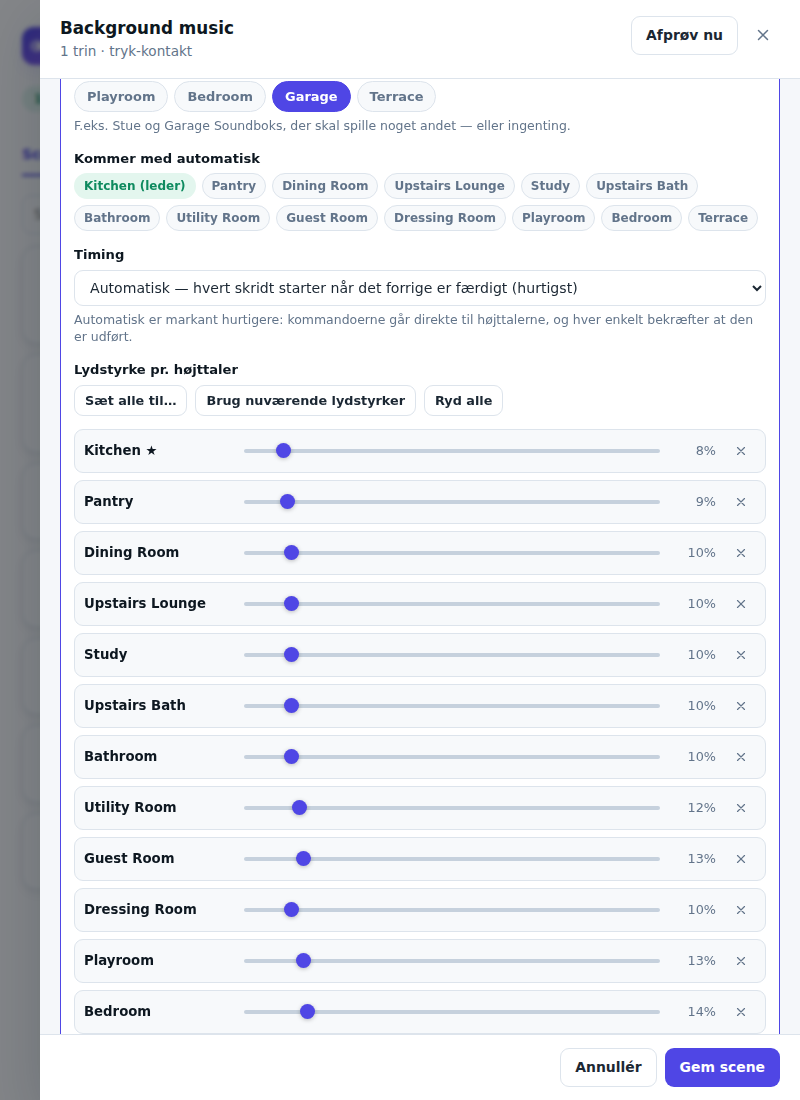
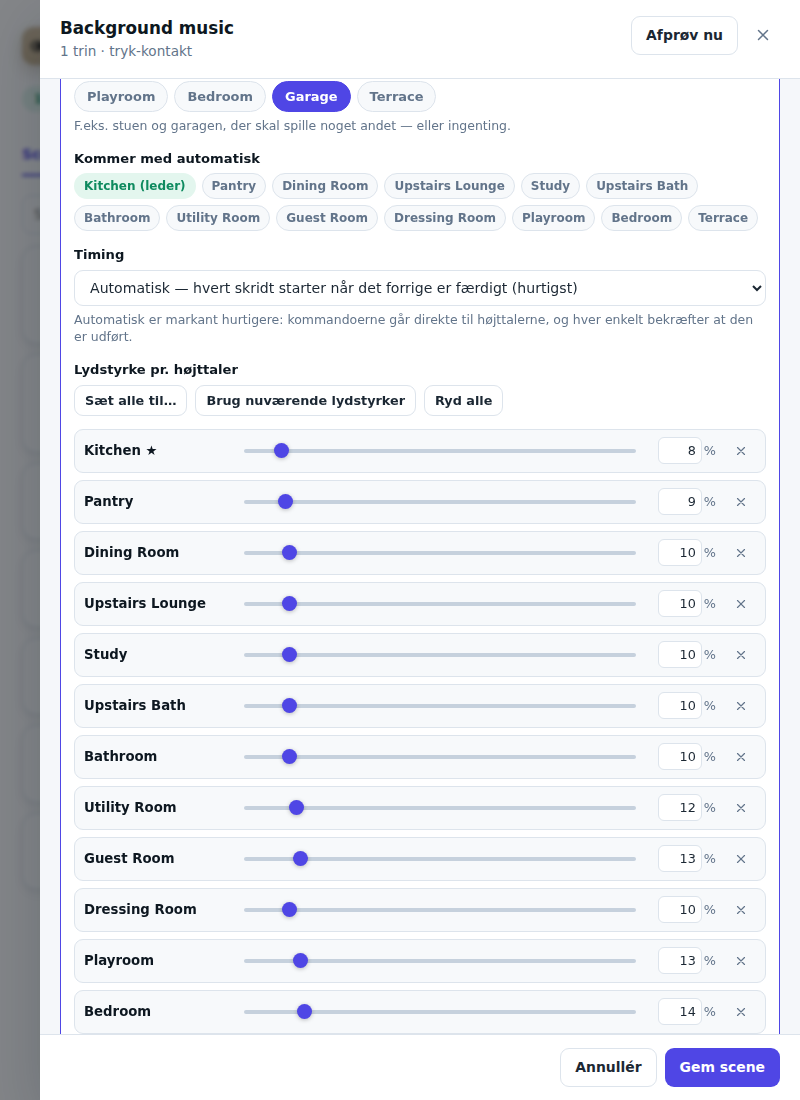
Type the level, and drag only by the grip
Reaching for a volume slider dragged the whole step. The card is
draggable so the list can be reordered, and a range input inside a
draggable element hands the gesture to its parent — so nudging 8 % to
12 % moved the step three places down instead.

Steps and scenes are now dragged only by their grip, which was always
there with a tooltip saying so. And each speaker's level has a number
field beside its slider: a slider is good for finding a level by ear
and useless for saying "twelve". Out-of-range numbers clip to 0-100 on
blur; clearing the field means the same as pressing the cross.

Also: the sand icon with the SONOS name, the same tile in the settings
header, and a mock household that hangs up its own sockets on teardown.

diff --git a/homebridge-ui/public/index.js b/homebridge-ui/public/index.js
@@ -635,9 +635,20 @@ function wireSceneDrag(list) {
   if (list.dataset.wired) return;
   list.dataset.wired = '1';
   let dragged = null;
+  let fromHandle = false;
+  list.addEventListener('mousedown', (event) => {
+    fromHandle = Boolean(event.target.closest('.sf-drag'));
+  });
+  list.addEventListener('mouseup', () => {
+    fromHandle = false;
+  });
   list.addEventListener('dragstart', (event) => {
     const card = event.target.closest('.sf-scene');
     if (!card) return;
+    if (!fromHandle) {
+      event.preventDefault();
+      return;
+    }
     dragged = card;
     card.classList.add('is-dragging');
     event.dataTransfer.effectAllowed = 'move';
@@ -646,6 +657,7 @@ function wireSceneDrag(list) {
     dragged?.classList.remove('is-dragging');
     $$('.sf-scene', list).forEach((card) => card.classList.remove('is-drop-target'));
     dragged = null;
+    fromHandle = false;
   });
   list.addEventListener('dragover', (event) => {
     event.preventDefault();
@@ -1501,7 +1513,13 @@ function renderGroupAndPlay(step, listKey) {
             <span class="sf-volrow-name" title="${escapeHtml(name)}">${escapeHtml(name)}${name === coordinator ? ' ★' : ''}</span>
             <input type="range" min="0" max="100" value="${set ? value : 10}"
                    data-act="vol-set" data-name="${escapeHtml(name)}" data-step="${step.id}" data-list="${listKey}" />
-            <span class="sf-volrow-value">${set ? `${value}%` : '—'}</span>
+            <span class="sf-volrow-num">
+              <input type="number" min="0" max="100" step="1" inputmode="numeric"
+                     value="${set ? value : ''}" placeholder="—"
+                     aria-label="${escapeHtml(name)}"
+                     data-act="vol-num" data-name="${escapeHtml(name)}" data-step="${step.id}" data-list="${listKey}" />
+              <span aria-hidden="true">%</span>
+            </span>
             <button type="button" class="sf-btn sf-btn--icon" data-act="vol-unset" data-name="${escapeHtml(name)}" data-step="${step.id}" data-list="${listKey}" title="${escapeHtml(t('ui.editor.dontTouch'))}">
               <svg viewBox="0 0 24 24" width="14" height="14" fill="none" stroke="currentColor" stroke-width="2" stroke-linecap="round"><path d="M18 6 6 18M6 6l12 12"/></svg>
             </button>
@@ -1909,6 +1927,14 @@ async function onEditorClick(event) {
 }
 
 function onEditorChange(event) {
+  if (event.target.dataset.act === 'vol-num') {
+    // Normalise what is on screen to what was stored: 250 becomes 100, 7.6
+    // becomes 8, and "abc" goes back to empty rather than sitting there.
+    const step = stepById(event.target.dataset.list, event.target.dataset.step);
+    const stored = step?.params?.volumes?.[event.target.dataset.name];
+    event.target.value = stored === undefined ? '' : stored;
+    return;
+  }
   const field = event.target.dataset.field;
   if (!field) return;
   const listKey = event.target.dataset.list;
@@ -1975,7 +2001,33 @@ function onEditorInput(event) {
     step.params.volumes[target.dataset.name] = Number(target.value);
     const row = target.closest('.sf-volrow');
     row.classList.remove('is-unset');
-    row.querySelector('.sf-volrow-value').textContent = `${target.value}%`;
+    row.querySelector('.sf-volrow-num input').value = target.value;
+    markDirty();
+    return;
+  }
+
+  /*
+   * The typed percentage.
+   *
+   * A slider is fine for finding a level by ear and hopeless for saying "12".
+   * Clearing the field is the same as pressing ×: this speaker is left alone.
+   */
+  if (target.dataset.act === 'vol-num') {
+    const step = stepById(target.dataset.list, target.dataset.step);
+    if (!step) return;
+    const row = target.closest('.sf-volrow');
+    const raw = target.value.trim();
+    step.params.volumes = { ...(step.params.volumes || {}) };
+    if (raw === '') {
+      delete step.params.volumes[target.dataset.name];
+      row.classList.add('is-unset');
+    } else {
+      const value = Math.max(0, Math.min(100, Math.round(Number(raw))));
+      if (!Number.isFinite(value)) return;
+      step.params.volumes[target.dataset.name] = value;
+      row.classList.remove('is-unset');
+      row.querySelector('input[type="range"]').value = value;
+    }
     markDirty();
     return;
   }
@@ -2037,9 +2089,28 @@ function readControl(element) {
 
 function wireStepDrag(root) {
   let dragged = null;
+  /*
+   * Only the grip starts a drag.
+   *
+   * The card is draggable, and a range input inside a draggable element hands
+   * the gesture to the parent — so reaching for a volume slider moved the whole
+   * step instead. The browser tells us nothing useful in dragstart (its target
+   * is the card, whatever you actually grabbed), so remember the mousedown.
+   */
+  let fromHandle = false;
+  root.addEventListener('mousedown', (event) => {
+    fromHandle = Boolean(event.target.closest('.sf-drag'));
+  });
+  root.addEventListener('mouseup', () => {
+    fromHandle = false;
+  });
   root.addEventListener('dragstart', (event) => {
     const card = event.target.closest('.sf-step');
     if (!card) return;
+    if (!fromHandle) {
+      event.preventDefault();
+      return;
+    }
     dragged = card;
     card.classList.add('is-dragging');
     event.dataTransfer.effectAllowed = 'move';
@@ -2048,6 +2119,7 @@ function wireStepDrag(root) {
     dragged?.classList.remove('is-dragging');
     $$('.sf-step', root).forEach((card) => card.classList.remove('is-drop-target'));
     dragged = null;
+    fromHandle = false;
   });
   root.addEventListener('dragover', (event) => {
     const card = event.target.closest('.sf-step');

diff --git a/homebridge-ui/public/styles.css b/homebridge-ui/public/styles.css
@@ -98,14 +98,16 @@ body {
 
 .sf-brand { display: flex; gap: 12px; align-items: center; min-width: 0; }
 
+/* The same tile as the app icon, so the settings page and the plugin browser
+   are recognisably the same product. */
 .sf-brand-mark {
   display: grid;
   place-items: center;
   width: 38px; height: 38px;
   border-radius: 12px;
-  background: linear-gradient(140deg, var(--sf-accent), #8b5cf6);
-  color: #fff;
-  box-shadow: 0 6px 16px var(--sf-accent-soft);
+  background: linear-gradient(160deg, #d2c0a2, #bfab88);
+  color: #1b1a16;
+  box-shadow: 0 6px 16px rgba(120, 96, 56, 0.28);
   flex: none;
 }
 
@@ -531,7 +533,7 @@ input[type="range"]::-moz-range-thumb {
 /* Volume map */
 .sf-volmap { display: grid; gap: 7px; }
 .sf-volrow {
-  display: grid; grid-template-columns: minmax(110px, 150px) 1fr 46px 30px;
+  display: grid; grid-template-columns: minmax(110px, 150px) 1fr 70px 30px;
   align-items: center; gap: 10px;
   padding: 6px 9px; border-radius: var(--sf-radius-sm);
   background: var(--sf-surface-soft); border: 1px solid var(--sf-border);
@@ -539,6 +541,21 @@ input[type="range"]::-moz-range-thumb {
 .sf-volrow.is-unset { opacity: 0.55; }
 .sf-volrow-name { font-size: 0.83rem; font-weight: 600; color: var(--sf-heading); overflow: hidden; text-overflow: ellipsis; white-space: nowrap; }
 .sf-volrow-value { font-variant-numeric: tabular-nums; font-size: 0.8rem; color: var(--sf-muted); text-align: right; }
+
+/* The level can be typed as well as dragged — a slider is good for finding a
+   level by ear and useless for saying "twelve". */
+.sf-volrow-num { display: flex; align-items: center; justify-content: flex-end; gap: 2px; font-size: 0.8rem; color: var(--sf-muted); }
+.sf-volrow-num input {
+  width: 44px; padding: 3px 5px;
+  border: 1px solid var(--sf-border); border-radius: 6px;
+  background: var(--sf-surface); color: var(--sf-text);
+  font: inherit; font-variant-numeric: tabular-nums; text-align: right;
+  -moz-appearance: textfield; appearance: textfield;
+}
+.sf-volrow-num input::-webkit-outer-spin-button,
+.sf-volrow-num input::-webkit-inner-spin-button { -webkit-appearance: none; margin: 0; }
+.sf-volrow-num input:focus { outline: none; border-color: var(--sf-accent); box-shadow: 0 0 0 3px var(--sf-accent-soft); }
+.sf-volrow.is-unset .sf-volrow-num input { color: var(--sf-muted); }
 
 /* Timeline */
 .sf-timeline { display: grid; gap: 5px; }
@@ -605,7 +622,7 @@ input[type="range"]::-moz-range-thumb {
 }
 
 @media (max-width: 620px) {
-  .sf-volrow { grid-template-columns: 1fr 44px 28px; }
+  .sf-volrow { grid-template-columns: 1fr 70px 28px; }
   .sf-volrow input[type="range"] { grid-column: 1 / -1; }
   .sf-drawer-head { flex-direction: column; align-items: stretch; }
   .sf-scene { flex-wrap: wrap; }

diff --git a/test/mock-sonos.js b/test/mock-sonos.js
@@ -2,6 +2,7 @@
 
 const http = require('node:http');
 const { parseXml, find, text, escapeXml } = require('../src/sonos/xml');
+const { agent } = require('../src/sonos/soap');
 
 /**
  * A fake Sonos household for the test suite.
@@ -134,7 +135,20 @@ class MockHousehold {
   }
 
   async close() {
-    await Promise.all(this.servers.map((server) => new Promise((resolve) => server.close(resolve))));
+    // The plugin keeps a pooled keep-alive agent, so sockets to these servers
+    // are still open when a test ends. `server.close()` waits for them, which
+    // can hang a whole file — and on the next test the ports are still taken.
+    // Hang up on our side first, then wait for the listeners to let go.
+    agent.destroy();
+    await Promise.all(
+      this.servers.map(
+        (server) =>
+          new Promise((resolve) => {
+            server.closeAllConnections?.();
+            server.close(resolve);
+          }),
+      ),
+    );
     this.servers = [];
   }
 

diff --git a/src/i18n/da.js b/src/i18n/da.js
@@ -141,7 +141,7 @@ module.exports = {
     'Med "alle" passer scenen sig selv, også når du sætter en ny højttaler op.',
   'action.groupAndPlay.leave': 'Højttalere der skal forlade gruppen',
   'action.groupAndPlay.leaveHelp':
-    'F.eks. Stue og Garage Soundboks, der skal spille noget andet — eller ingenting.',
+    'F.eks. stuen og garagen, der skal spille noget andet — eller ingenting.',
   'action.groupAndPlay.members': 'Højttalere i gruppen',
   'action.groupAndPlay.membersHelp': 'Disse tilsluttes gruppelederen. Gruppelederen er altid med.',
   'action.groupAndPlay.volumes': 'Lydstyrke pr. højttaler',

diff --git a/CHANGELOG.md b/CHANGELOG.md
@@ -1,5 +1,26 @@
 # Changelog
 
+## 3.1.2
+
+### The level can be typed
+
+Reaching for a volume slider dragged the whole step. The step card is draggable so the list can be reordered, and a range input inside a draggable element hands the gesture to its parent — so a careful nudge from 8 % to 12 % moved the step three places down the list instead.
+
+A step is now dragged only by its grip, and so is a scene. The grip was always there with a tooltip saying what it does; now it is the only thing that starts a drag.
+
+And each speaker's level has a number field next to its slider. A slider is good for finding a level by ear and useless for saying "twelve". Type it, or drag it, whichever suits — they follow each other. Out-of-range numbers are clipped to 0–100 when you leave the field, and clearing it means the same as pressing × : leave this speaker alone.
+
+### A new icon
+
+Sand rather than indigo, with the mark — a switch, with sound coming out of it — over the name of the system it controls. The word is set in a plain grotesque and converted to outlines, so the icon needs no font wherever it is opened, and is deliberately not Sonos's own logotype, which is theirs. The settings header carries the same tile.
+
+### Smaller things
+
+- The mock household hangs up its own keep-alive sockets when a test finishes, rather than leaving the plugin's pooled agent holding ports open into the next test.
+- One help text still named two rooms from the house this plugin was first built for. It now says "the living room and the garage", like the English always did.
+
+124 unit tests and 100 browser checks.
+
 ## 3.1.1
 
 ### The test suite could not run on macOS

diff --git a/README.da.md b/README.da.md
@@ -13,7 +13,7 @@
   <a href="https://www.npmjs.com/package/homebridge-sonos-control-pro"><img src="https://img.shields.io/npm/v/homebridge-sonos-control-pro?color=4f46e5&label=npm" alt="npm-version" /></a>
   <a href="https://github.com/mathiashornbek/homebridge-sonos-control-pro/blob/main/LICENSE"><img src="https://img.shields.io/npm/l/homebridge-sonos-control-pro?color=4f46e5" alt="MIT-licens" /></a>
   <img src="https://img.shields.io/badge/Homebridge-1.8%20%7C%202.x-4f46e5" alt="Homebridge 1.8 og 2.x" />
-  <img src="https://img.shields.io/badge/tests-124%20%2B%2095-4f46e5" alt="124 tests, 95 browserkontroller" />
+  <img src="https://img.shields.io/badge/tests-124%20%2B%20100-4f46e5" alt="124 tests, 100 browserkontroller" />
 </p>
 
 ---
@@ -214,7 +214,7 @@ Issues og pull requests er velkomne. Testsuiten er kontrakten:
 
 ```bash
 npm test        # 124 enheds- og integrationstests mod en komplet efterlignet Sonos-husstand
-npm run test:ui # 95 kontroller der kører den rigtige backend i Chromium
+npm run test:ui # 100 kontroller der kører den rigtige backend i Chromium
 ```
 
 Efterligningen i `test/mock-sonos.js` taler rigtig SOAP over rigtig HTTP på loopback, med netværksforsinkelse, rigtige kø-opdaterings-id'er og højttalere der kan dukke op midt i en afvikling — så testene rammer den faktiske protokol, ikke en attrap.

diff --git a/README.md b/README.md
@@ -14,7 +14,7 @@
   <a href="https://www.npmjs.com/package/homebridge-sonos-control-pro"><img src="https://img.shields.io/npm/dt/homebridge-sonos-control-pro?color=4f46e5" alt="downloads" /></a>
   <a href="https://github.com/mathiashornbek/homebridge-sonos-control-pro/blob/main/LICENSE"><img src="https://img.shields.io/npm/l/homebridge-sonos-control-pro?color=4f46e5" alt="MIT licence" /></a>
   <img src="https://img.shields.io/badge/Homebridge-1.8%20%7C%202.x-4f46e5" alt="Homebridge 1.8 and 2.x" />
-  <img src="https://img.shields.io/badge/tests-124%20%2B%2095-4f46e5" alt="124 unit tests, 95 browser checks" />
+  <img src="https://img.shields.io/badge/tests-124%20%2B%20100-4f46e5" alt="124 unit tests, 100 browser checks" />
 </p>
 
 ---
@@ -215,7 +215,7 @@ Issues and pull requests are welcome. The test suite is the contract:
 
 ```bash
 npm test        # 124 unit and integration tests against a full mock Sonos household
-npm run test:ui # 95 checks driving the real settings UI in Chromium
+npm run test:ui # 100 checks driving the real settings UI in Chromium
 ```
 
 The mock household in `test/mock-sonos.js` speaks real SOAP over real HTTP on loopback, with configurable latency, real queue update IDs and speakers that can appear mid-run — so the tests exercise the actual protocol, not a stub of it.
